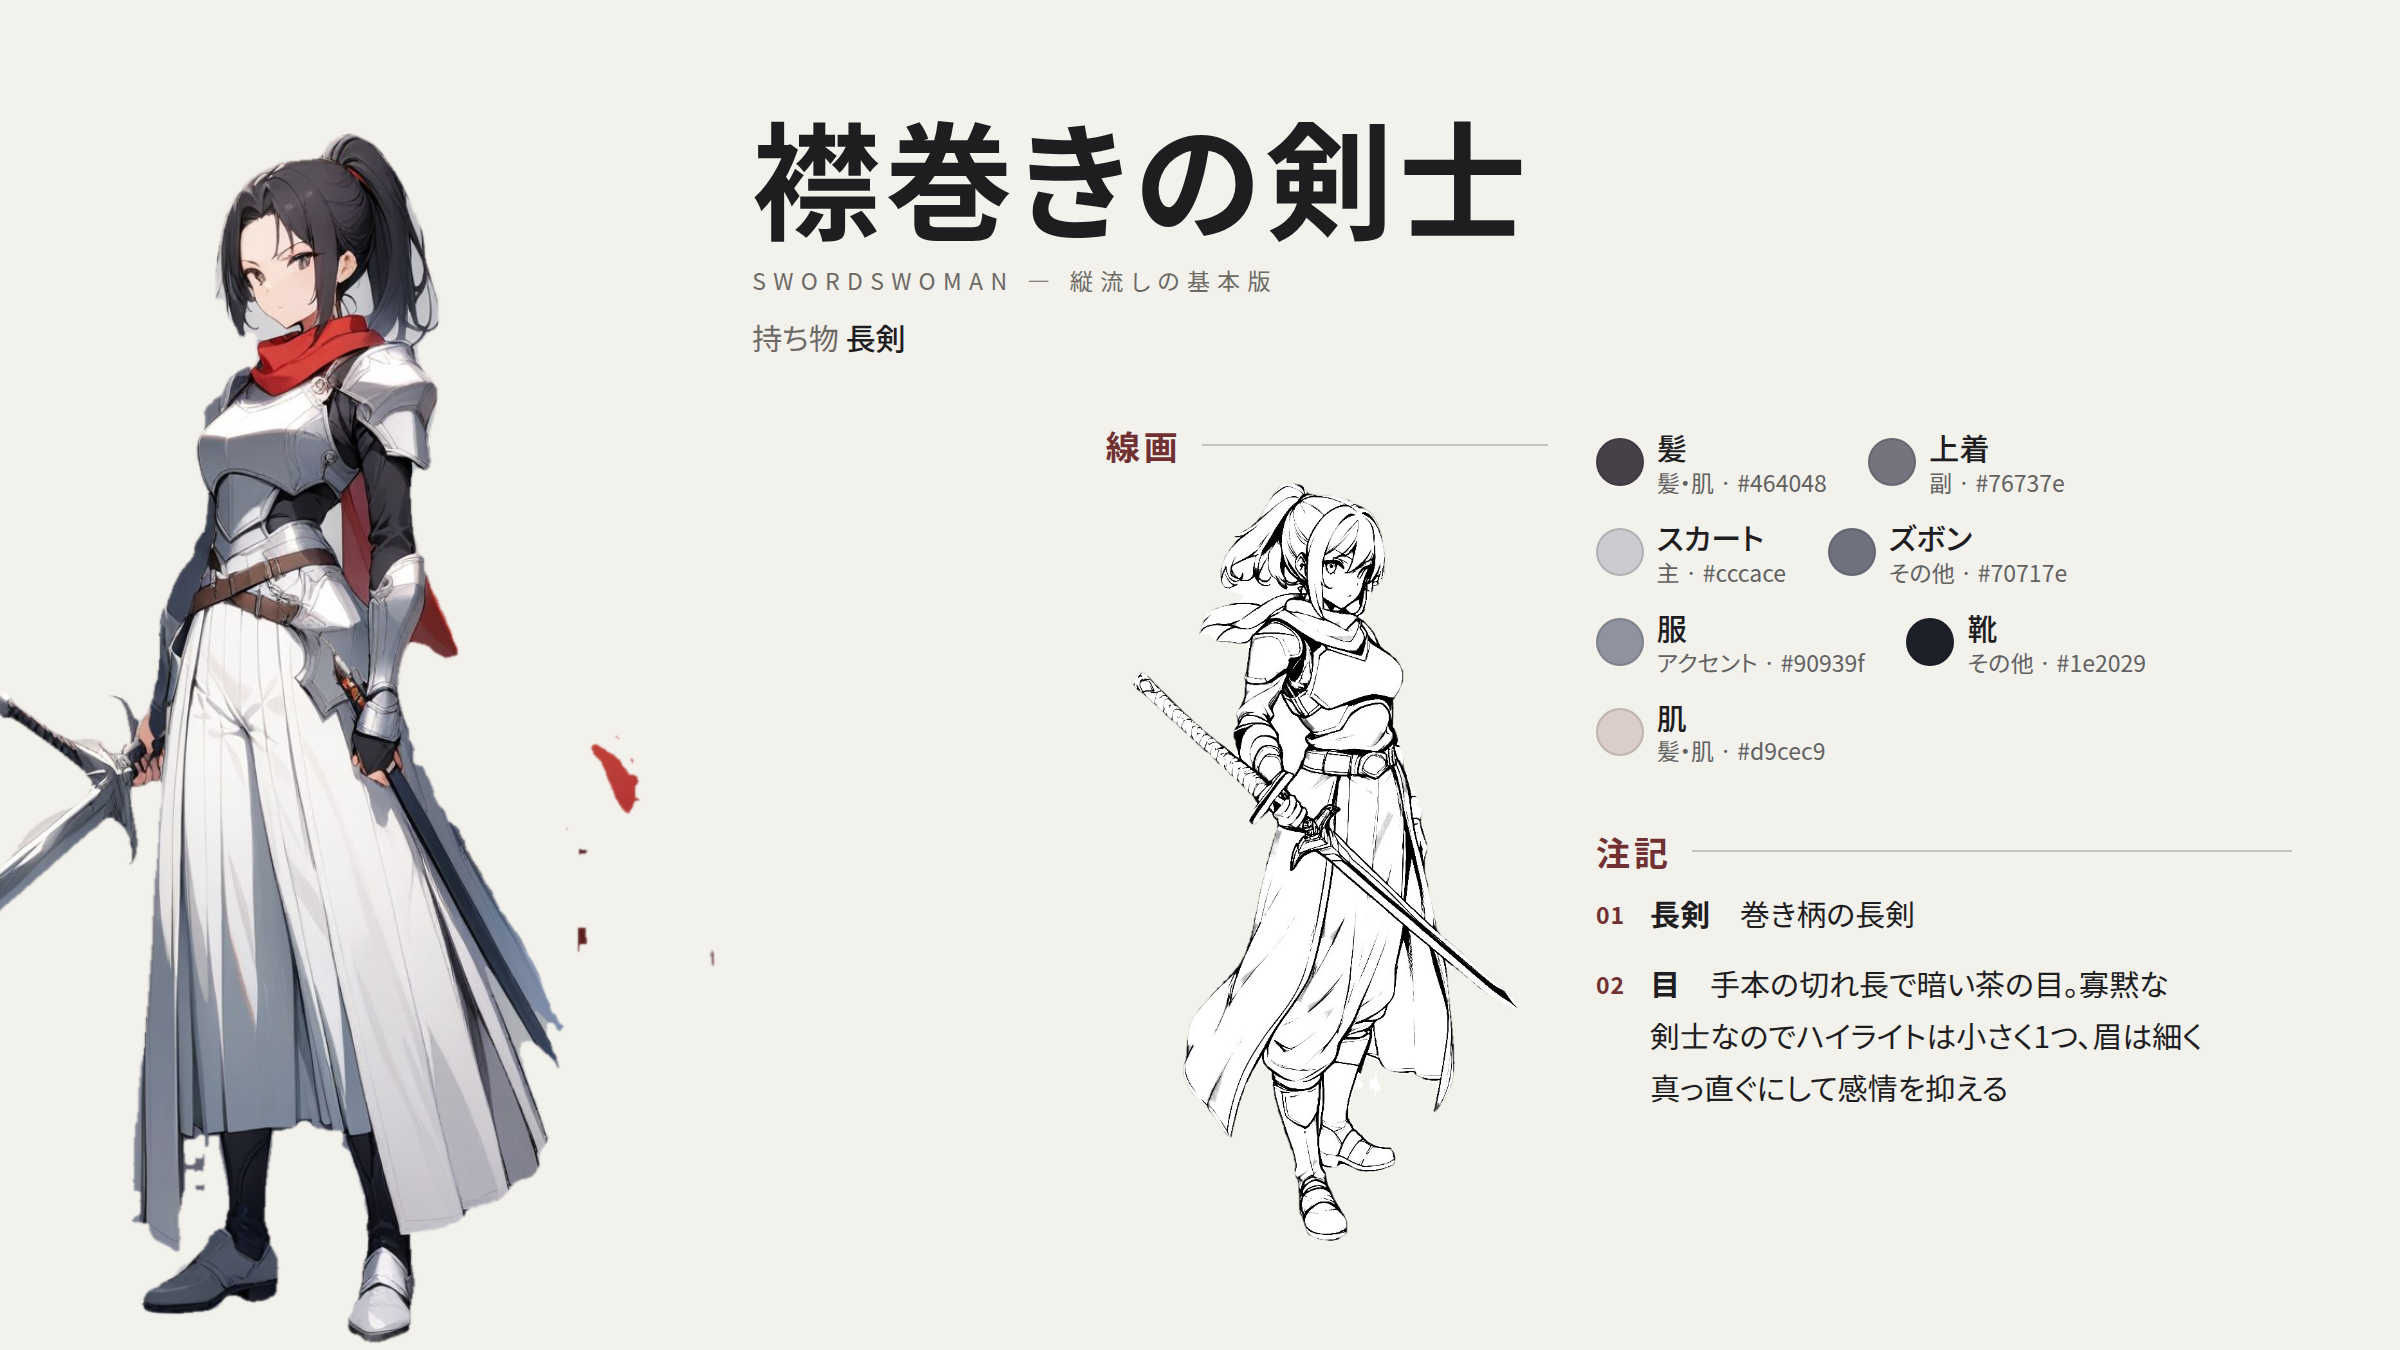
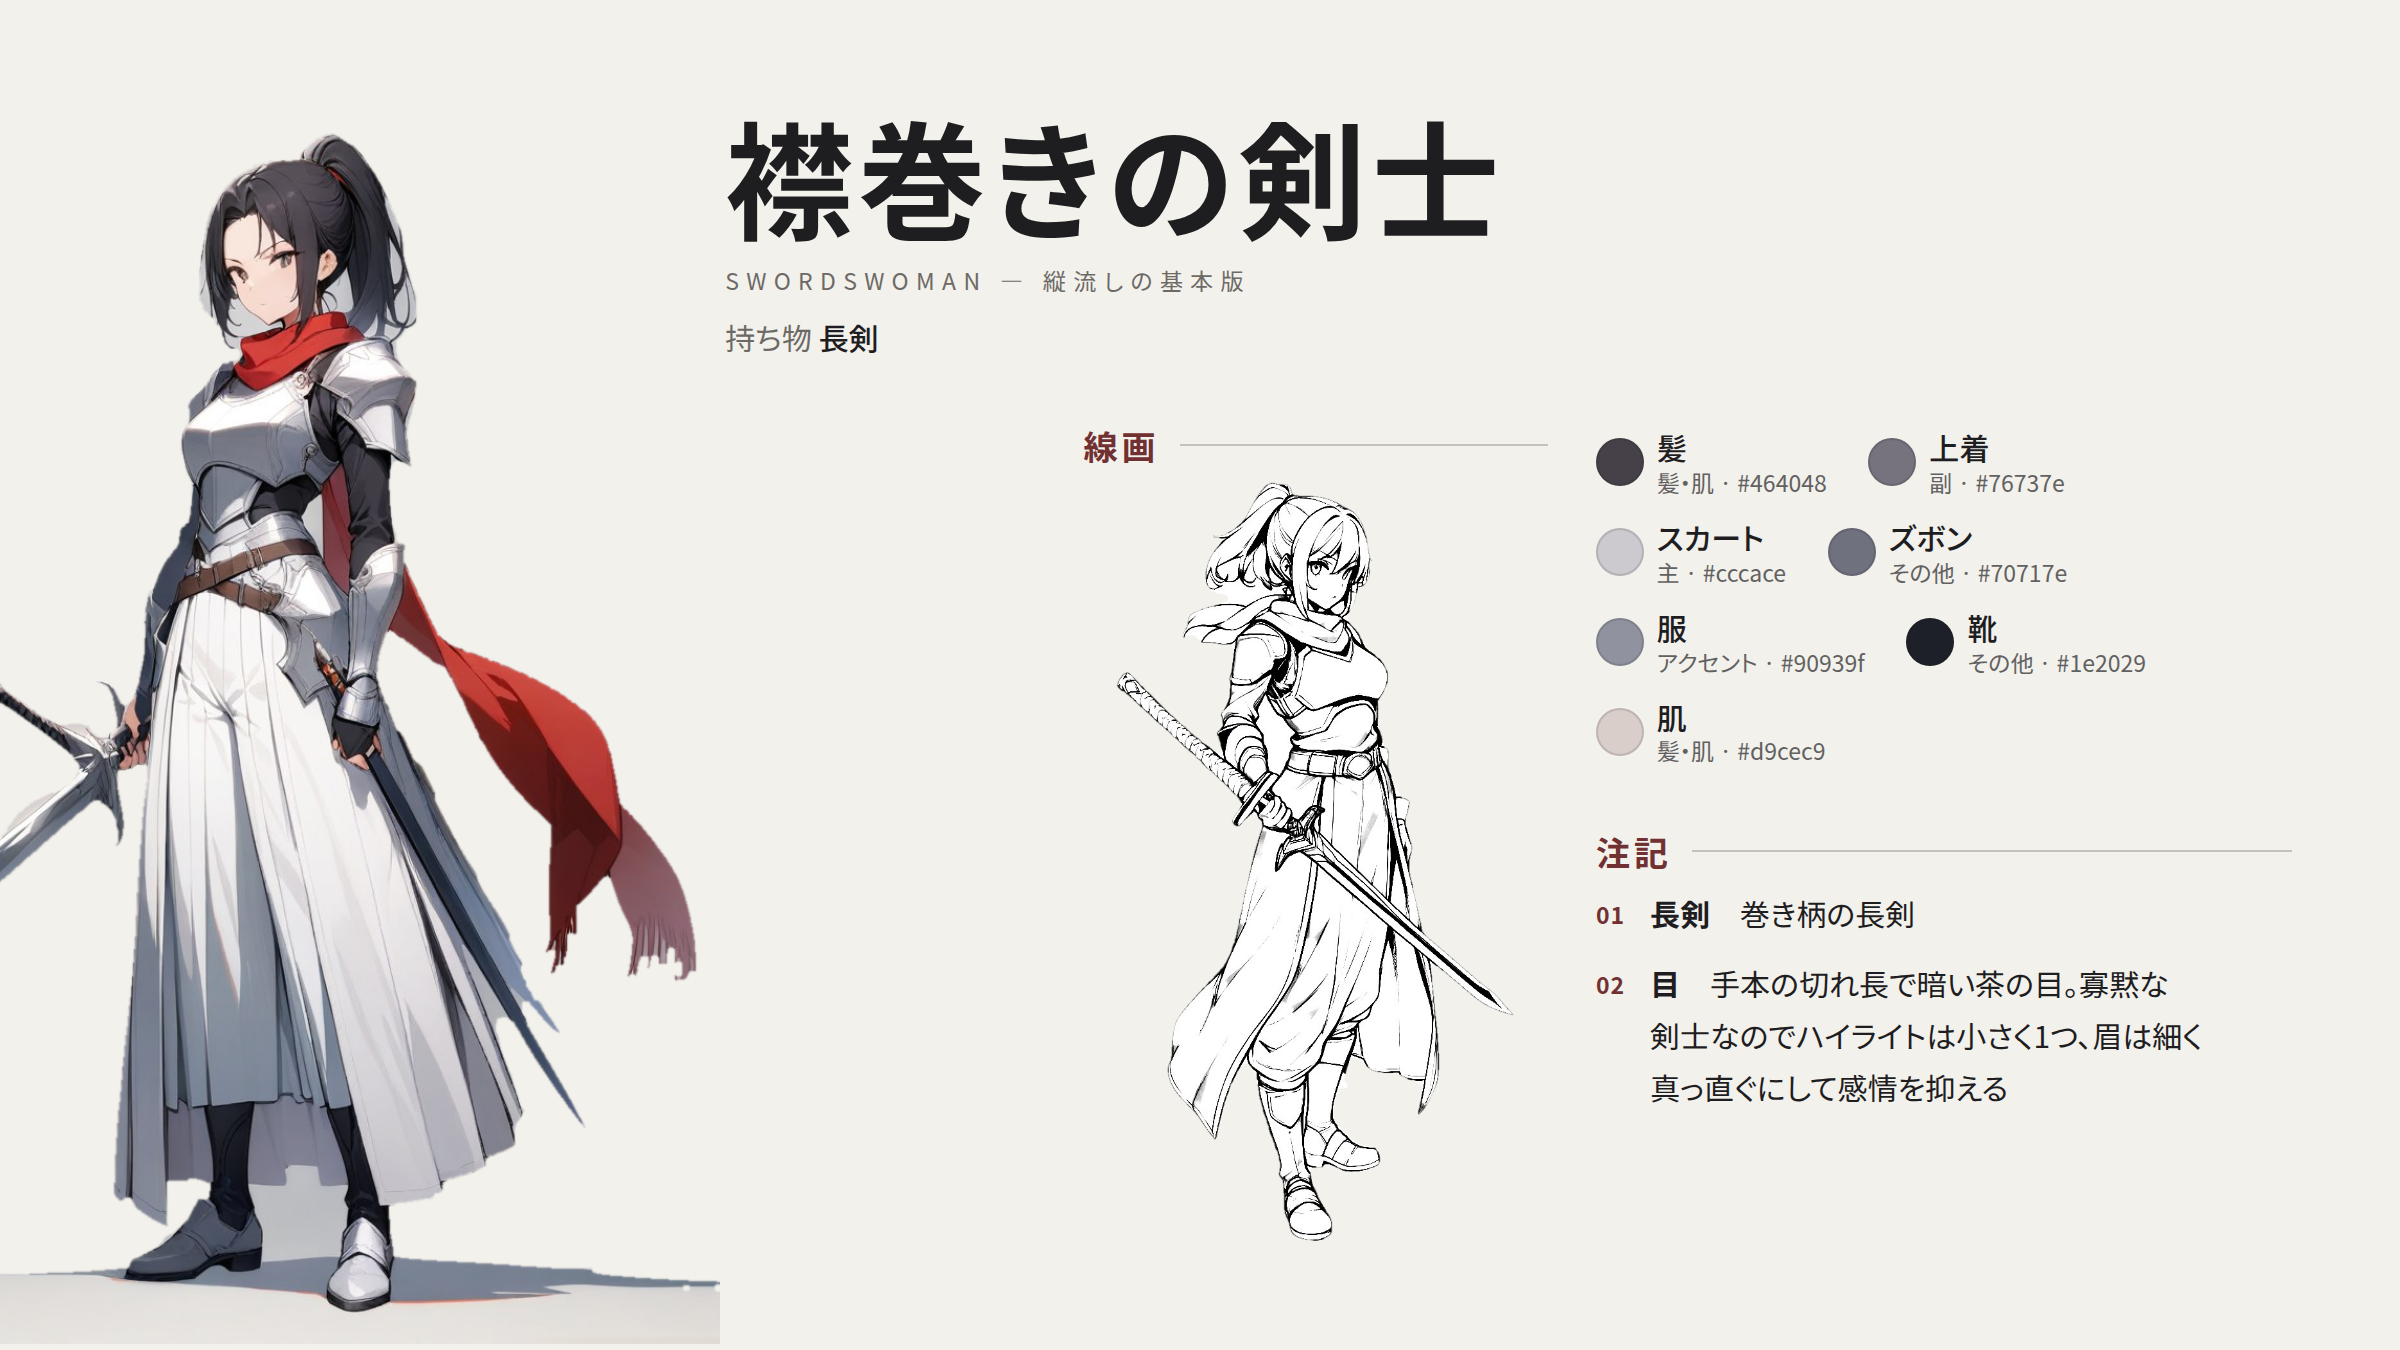
設定画集の主役の抜き方で、持ち物と襟巻を消さない
人に触れている塊を大きさで外すと、技師の大スパナと剣士の襟巻の端まで消えた。
人に触れている塊は残し、本体から離れた小さな欠片だけを外す。

Claude-Session: https://claude.ai/code/session_01SckJ2FC4PhB88prMhjDTEV

diff --git a/tools/gen/charsheet.py b/tools/gen/charsheet.py
@@ -557,7 +557,7 @@ def _cutout(im, src=None):
             import edit
             seg = np.asarray(edit.parts(src).resize(im.size, Image.NEAREST))
             arms = np.isin(seg, [14, 15])
-            touch = ndimage.binary_dilation(arms if arms.any() else person, iterations=8)
+            touch = ndimage.binary_dilation(person, iterations=8)
             ys, xs = np.nonzero(person)
             pad = int((xs.max() - xs.min()) * 0.25)
             box = np.zeros_like(person)
@@ -571,15 +571,16 @@ def _cutout(im, src=None):
                     continue   # 人に触れていない塊は背景
                 solid = area / comp.size
                 # 大きく詰まった塊（機械の車輪）は背景、細長い・まばらな塊（持ち物）は残す
-                if area > 0.05 * person.sum() and solid > 0.35:
-                    continue
-                if area > 0.10 * person.sum():   # 持ち物より大きい塊（人の後ろの機械）は背景
-                    continue
                 # 人の横幅から大きく外れて広がる塊（背後の機械）は背景。持ち物は人の幅の近くに収まる
                 if (box[sl] & comp).sum() < 0.7 * area:
                     continue
                 keep[sl] |= comp
             fg = ndimage.binary_fill_holes(keep) & (fg | person)
+            # 本体から離れた小さな欠片（抜け残りの赤い点）は外す
+            lab2, n2 = ndimage.label(fg)
+            if n2 > 1:
+                sizes = ndimage.sum(fg, lab2, range(1, n2 + 1))
+                fg = np.isin(lab2, [i + 1 for i, v in enumerate(sizes) if v >= 0.004 * person.sum()])
     elif (~fg).mean() < 0.15:
         return Image.new("L", im.size, 255)
     m = Image.fromarray((fg * 255).astype("uint8"))
